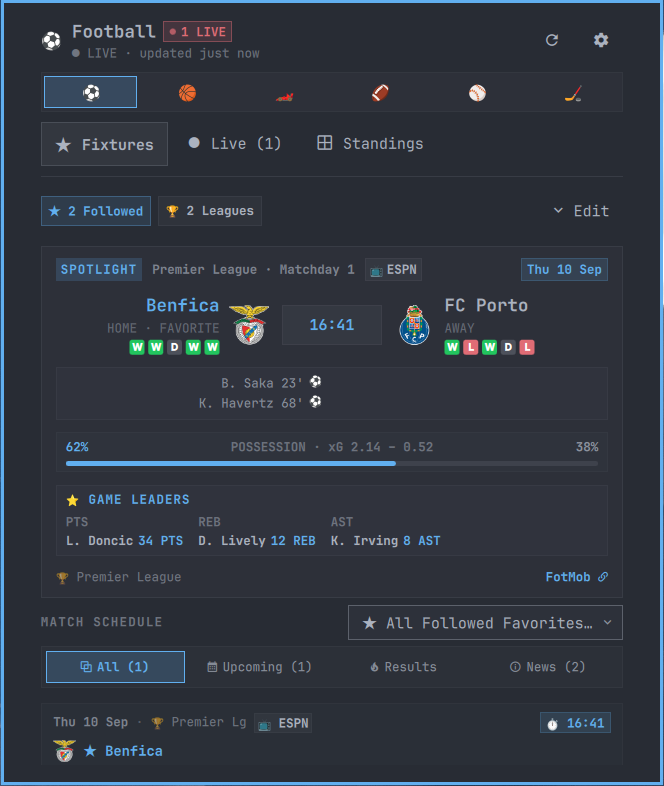
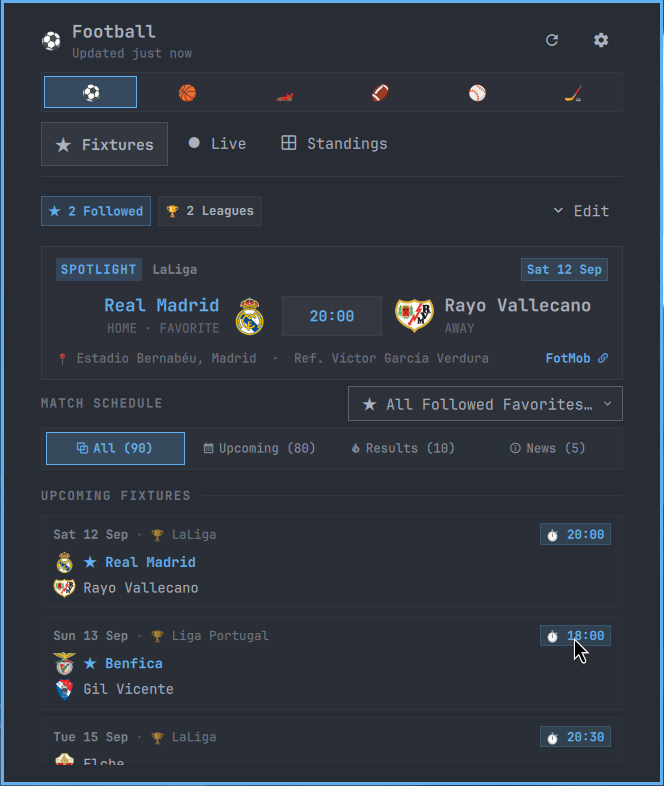
docs: use live data in project preview

diff --git a/README.md b/README.md
@@ -17,7 +17,7 @@
 
 ![OmaSports football fixtures panel](assets/omasports-preview.png)
 
-<p align="center"><sub>Preview shown with deterministic sample data. Live scores are fetched when the plugin runs.</sub></p>
+<p align="center"><sub>Preview captured from the live FotMob feed. Fixture times and availability vary by season and timezone.</sub></p>
 
 ## Overview
 
